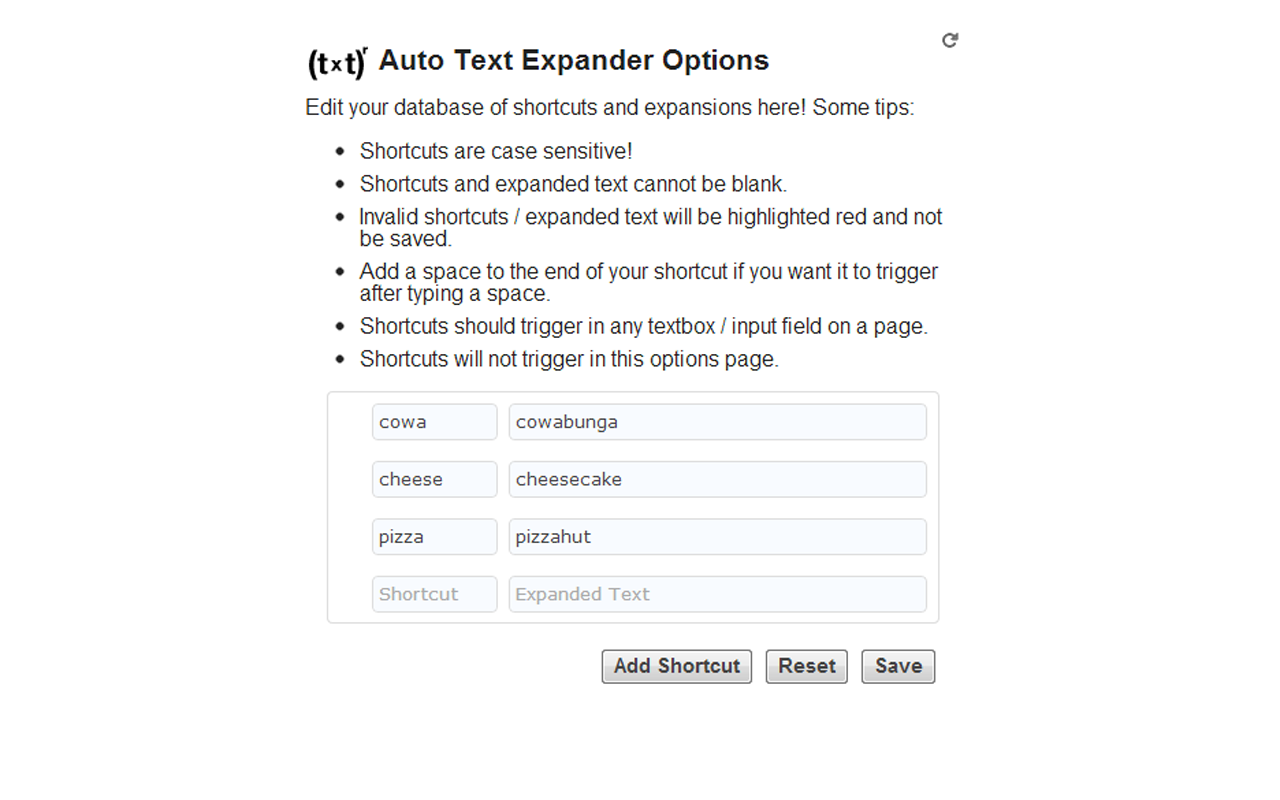
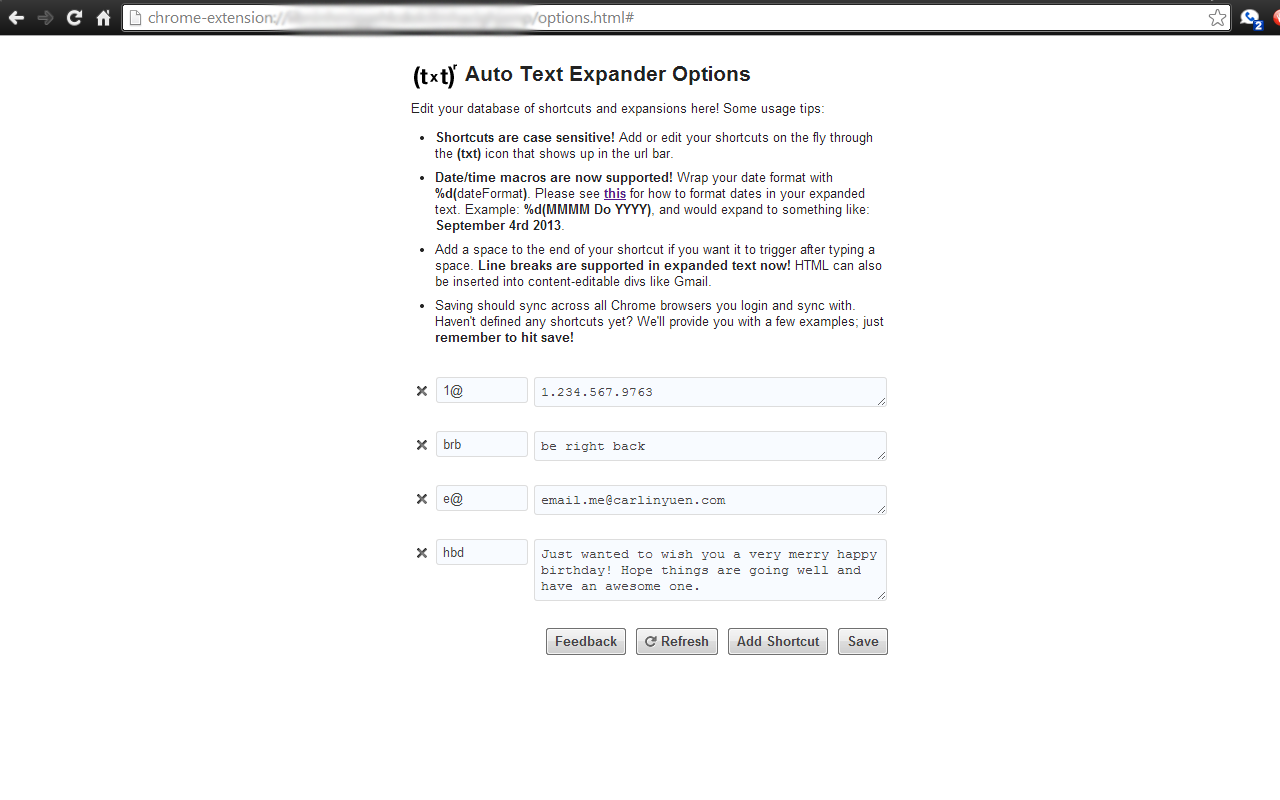
updating screenshots

Changed region(s): [[0.0, 0.0, 1.0, 0.875]]

diff --git a/options.html b/options.html
@@ -14,7 +14,8 @@
 			<p>Edit your database of shortcuts and expansions here! Some usage tips:</p>
 
 			<ul>
-				<li><strong>Shortcuts are case sensitive!</strong> Add or edit your shortcuts on the fly through the <strong>(txt)</strong> icon that shows up in the url bar.</li>
+				<li><strong>Shortcuts are case sensitive!</strong> Add or edit your shortcuts
+					on the fly through the <strong>(txt)</strong> icon that shows up in the url bar.</li>
 				<li><strong>Date/time macros are now supported!</strong>
 					Wrap your date format with <strong>%d(</strong>dateFormat<strong>)</strong>.
 					Please see <strong><a href="http://momentjs.com/docs/#/displaying/format/" target="_blank" title="Date Formatting Documentation">this</a></strong>
@@ -25,7 +26,7 @@
 					it to trigger after typing a space. <strong>Line breaks are supported
 					in expanded text now!</strong> HTML can also be inserted into content-editable divs like Gmail.</li>
 				<li>Saving should sync across all Chrome browsers you login and sync with.
-					First-time user? We'll provide you with a few examples!</li>
+					First-time user? Here's a few examples! Make sure to refresh your page.</li>
 			</ul>
 
 			<section>
